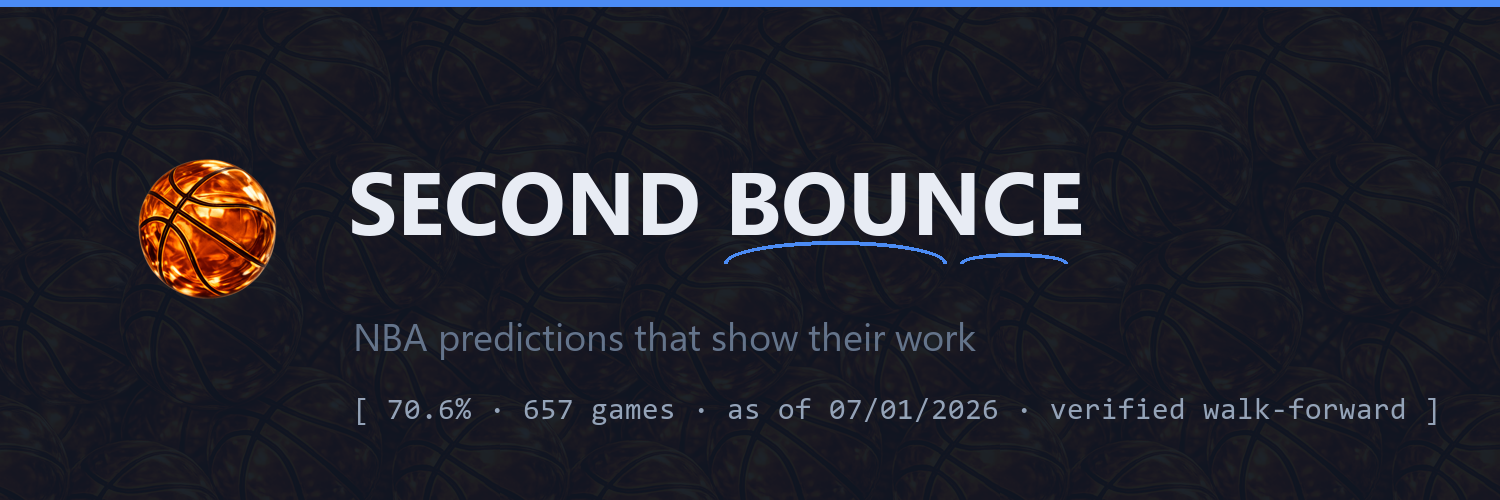
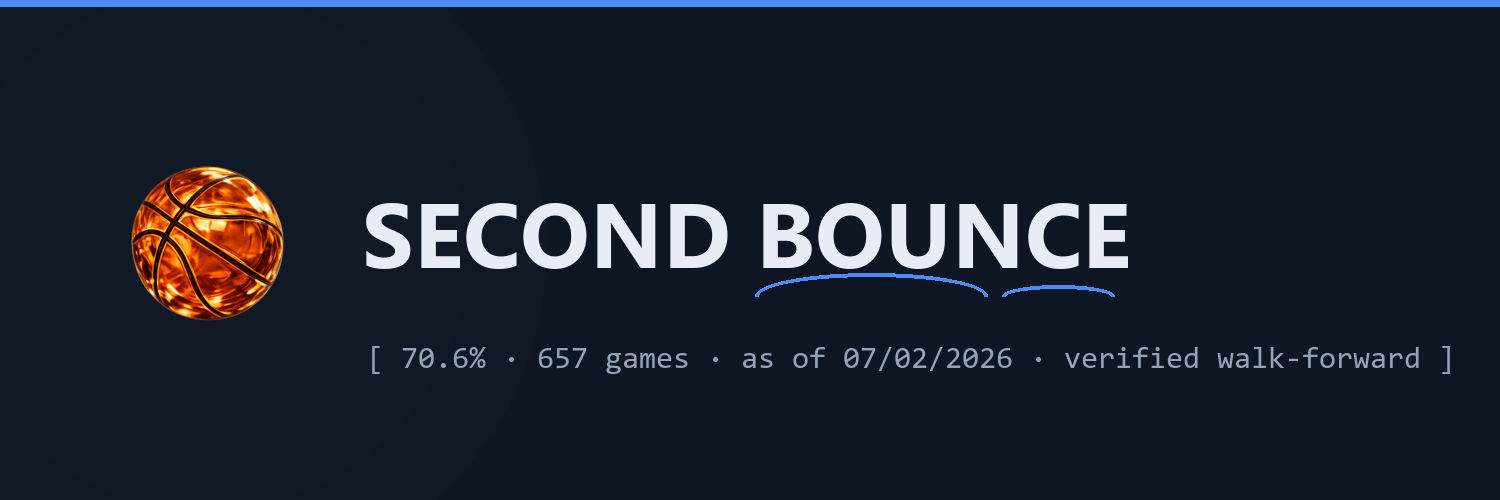
X header cleanup, season-moments ribbon, trimmed recap copy

diff --git a/scripts/generate_moments_ribbon.py b/scripts/generate_moments_ribbon.py
@@ -1,0 +1,104 @@
+"""Season-moments ribbon: a filmstrip of five receipts for the recap post.
+
+Team logos from the ESPN CDN (same source the live site uses).
+Output: docs/growth/posts/assets/moments_ribbon.png (1456x340).
+"""
+
+from PIL import Image, ImageDraw, ImageFont
+
+ASSETS = "docs/growth/posts/assets"
+F = "C:/Windows/Fonts/"
+
+STRIP = (8, 12, 20)
+CARD = (15, 22, 35)
+TEXT = (232, 236, 244)
+MUTED = (100, 116, 139)
+BLUE = (75, 139, 244)
+GREEN = (16, 185, 129)
+RED = (239, 68, 68)
+HOLE = (24, 32, 48)
+
+W, H = 1456, 340
+img = Image.new("RGB", (W, H), STRIP)
+d = ImageDraw.Draw(img)
+
+# film sprocket holes
+for y in (14, H - 26):
+    for x in range(24, W - 20, 52):
+        d.rounded_rectangle([x, y, x + 26, y + 12], radius=4, fill=HOLE)
+
+f_label = ImageFont.truetype(F + "segoeuib.ttf", 19)
+f_big = ImageFont.truetype(F + "segoeuib.ttf", 56)
+f_mid = ImageFont.truetype(F + "segoeuib.ttf", 40)
+f_sub = ImageFont.truetype(F + "segoeui.ttf", 19)
+f_stamp = ImageFont.truetype(F + "segoeuib.ttf", 21)
+
+
+def logo(name, size):
+    im = Image.open(f"{ASSETS}/logos/{name}.png").convert("RGBA")
+    return im.resize((size, size))
+
+
+def card(x, w=262):
+    d.rounded_rectangle([x, 46, x + w, H - 46], radius=12, fill=CARD)
+    return x, x + w
+
+
+def stamp(cx, y, text, color):
+    tw = d.textlength(text, font=f_stamp)
+    d.rounded_rectangle([cx - tw / 2 - 12, y, cx + tw / 2 + 12, y + 32],
+                        radius=6, outline=color, width=2)
+    d.text((cx, y + 4), text, font=f_stamp, fill=color, anchor="ma")
+
+
+def center(x0, x1):
+    return (x0 + x1) / 2
+
+
+pad = 22
+xs = [pad + i * (262 + 27) for i in range(5)]
+
+# 1. the streak
+x0, x1 = card(xs[0]); c = center(x0, x1)
+d.text((c, 66), "THE STREAK", font=f_label, fill=MUTED, anchor="ma")
+d.text((c, 104), "20", font=f_big, fill=TEXT, anchor="ma")
+d.text((c, 178), "straight correct picks\nat the March peak", font=f_sub,
+       fill=MUTED, anchor="ma", align="center")
+stamp(c, 238, "CORRECT", GREEN)
+
+# 2. the run
+x0, x1 = card(xs[1]); c = center(x0, x1)
+d.text((c, 66), "THE RUN", font=f_label, fill=MUTED, anchor="ma")
+d.text((c, 104), "16 / 20", font=f_big, fill=TEXT, anchor="ma")
+d.text((c, 178), "tracked playoff games\ncalled correctly", font=f_sub,
+       fill=MUTED, anchor="ma", align="center")
+stamp(c, 238, "80%", GREEN)
+
+# 3. the humbling (BOS-PHI twice)
+x0, x1 = card(xs[2]); c = center(x0, x1)
+d.text((c, 66), "THE HUMBLING", font=f_label, fill=MUTED, anchor="ma")
+img.paste(logo("bos", 74), (int(c) - 88, 96), logo("bos", 74))
+img.paste(logo("phi", 74), (int(c) + 14, 96), logo("phi", 74))
+d.text((c, 182), "90% on Boston at home,\ntwice. Lost twice.", font=f_sub,
+       fill=MUTED, anchor="ma", align="center")
+stamp(c, 238, "MISS x2", RED)
+
+# 4. the blowout (OKC-PHX)
+x0, x1 = card(xs[3]); c = center(x0, x1)
+d.text((c, 66), "THE BLOWOUT", font=f_label, fill=MUTED, anchor="ma")
+img.paste(logo("okc", 74), (int(c) - 88, 96), logo("okc", 74))
+img.paste(logo("phx", 74), (int(c) + 14, 96), logo("phx", 74))
+d.text((c, 182), "90% on the Thunder.\nSuns won by 32.", font=f_sub,
+       fill=MUTED, anchor="ma", align="center")
+stamp(c, 238, "MISS", RED)
+
+# 5. the audit
+x0, x1 = card(xs[4]); c = center(x0, x1)
+d.text((c, 66), "THE AUDIT", font=f_label, fill=MUTED, anchor="ma")
+d.text((c, 112), "73.5 → 70.6", font=f_mid, fill=TEXT, anchor="ma")
+d.text((c, 178), "we caught our tracker\nflattering the model", font=f_sub,
+       fill=MUTED, anchor="ma", align="center")
+stamp(c, 238, "CORRECTED", BLUE)
+
+img.save(f"{ASSETS}/moments_ribbon.png")
+print("done: moments_ribbon.png")

diff --git a/scripts/generate_brand_assets.py b/scripts/generate_brand_assets.py
@@ -97,29 +97,29 @@ draw.text((W - 80, H - 56), "secondbounce.substack.com",
 banner.save(f"{ASSETS}/footer_banner.png")
 
 # ---------------------------------------------------------------- X header
+# Clean: no tagline, no pattern (Aaron 2026-07-01). Ball + wordmark + receipt.
 XW, XH = 1500, 500
 hdr = Image.new("RGB", (XW, XH), NAVY)
-tile2 = pattern.resize((500, 500))
-tile2.putalpha(tile2.split()[3].point(lambda a: int(a * 0.06)))
-for x in range(0, XW, 500):
-    for y in range(0, XH, 500):
-        hdr.paste(tile2, (x, y), tile2)
 d2 = ImageDraw.Draw(hdr)
+# soft radial glow behind the ball so the plain navy isn't flat
+glow = Image.new("L", (XW, XH), 0)
+gd = ImageDraw.Draw(glow)
+for r_, a_ in [(340, 14), (260, 20), (180, 26)]:
+    gd.ellipse([205 - r_, 250 - r_, 205 + r_, 250 + r_], fill=a_)
+hdr.paste(Image.new("RGB", (XW, XH), (36, 48, 72)), (0, 0), glow)
 d2.rectangle([0, 0, XW, 6], fill=BLUE_DARK_SURFACE)
 
-ball2 = ball_full.resize((190, 190))
-hdr.paste(ball2, (110, 140), ball2)
+ball2 = ball_full.resize((210, 210))
+hdr.paste(ball2, (100, 145), ball2)
 
-f_brand2 = ImageFont.truetype(F + "segoeuib.ttf", 88)
-tx2 = 110 + 190 + 48
-d2.text((tx2, 140), "SECOND BOUNCE", font=f_brand2, fill=TEXT_DARK)
+f_brand2 = ImageFont.truetype(F + "segoeuib.ttf", 92)
+tx2 = 100 + 210 + 52
+d2.text((tx2, 168), "SECOND BOUNCE", font=f_brand2, fill=TEXT_DARK)
 prefix2 = d2.textlength("SECOND ", font=f_brand2)
 bounce2 = d2.textlength("BOUNCE", font=f_brand2)
-bounce_arcs(d2, tx2 + prefix2, 263, bounce2, BLUE_DARK_SURFACE, width=4)
-d2.text((tx2 + 5, 310), "NBA predictions that show their work",
-        font=ImageFont.truetype(F + "segoeui.ttf", 38), fill=MUTED_DARK)
-d2.text((tx2 + 5, 396), RECEIPT,
-        font=ImageFont.truetype(F + "consola.ttf", 30), fill=(148, 163, 184))
+bounce_arcs(d2, tx2 + prefix2, 296, bounce2, BLUE_DARK_SURFACE, width=4)
+d2.text((tx2 + 5, 344), RECEIPT,
+        font=ImageFont.truetype(F + "consola.ttf", 31), fill=(148, 163, 184))
 hdr.save(f"{ASSETS}/x_header.png")
 
 print("done:", RECEIPT)

diff --git a/docs/growth/posts/2026-07-01-season-recap.md b/docs/growth/posts/2026-07-01-season-recap.md
@@ -8,7 +8,7 @@ The season is over. Here's how it went.
 
 For context: picking the home team every night gets you roughly 55%. Most public prediction models live in the 63 to 67% range. A 70.6% season clears both bars, and the full game-by-game log is public.
 
-One more thing about that number, because it matters. While preparing this recap we audited our own tracking system and found it had been grading the model too generously: it scored some games using ratings that already included those games' results, a subtle form of data leakage that inflated the record to 73.5%. We rebuilt the entire season as a strict walk-forward replay, where every prediction only knows what was knowable before tip-off. The number that survives that audit is 70.6%, and it's the only number you'll ever see us quote. A prediction outfit that quietly publishes its most flattering math is a tout. We're the other thing.
+One more thing about that number. While preparing this recap we audited our own tracker and caught it flattering the model: a subtle data leak had inflated the record to 73.5%. We rebuilt the whole season as a strict walk-forward replay, and 70.6% is what survives. It's the only number you'll ever see us quote. A prediction outfit that quietly publishes its most flattering math is a tout. We're the other thing.
 
 ## What is this thing?
 
@@ -34,15 +34,11 @@ Accuracy is one thing. Calibration, whether a "75% confident" pick actually wins
 
 The middle of the range is solid: picks in the 60 to 80% buckets delivered right around what they promised, and coin-flip games landed above promise. The flaw is at the top: picks stated at 90%+ won 81% of the time, not 90. The model knows who's better; it's still learning how sure to be. Tightening that top end is literally on our offseason engineering list, and you'll be able to check next season whether we did it.
 
-## The misses we still think about
+## The season in five receipts
 
-The model's most confident wrong calls of the season, in all their glory:
+![Five moments: the 20-game streak, the 16/20 playoff run, the Boston-Philly humbling, the OKC blowout miss, and the audit](https://substack-post-media.s3.amazonaws.com/public/images/36503e95-bac5-4d4c-be3d-d139afe22561_1456x340.jpeg)
 
-- Boston at home against Philadelphia in the playoffs, twice. The model said 90% both times. The Sixers won both games by double digits.
-- Oklahoma City at home against Phoenix in April, 90%. The Suns won by 32.
-- Denver at home against Minnesota, 90%. The Wolves stole it 119 to 114.
-
-Basketball remains undefeated at humbling math. A 90% call losing isn't the model breaking, it's the 1-in-10 showing up on schedule. But four of them clustered at the top is part of why "overconfident up top" is our number one calibration fix.
+Basketball remains undefeated at humbling math. A 90% call losing isn't the model breaking, it's the 1-in-10 showing up on schedule (ask Denver, who the model gave 90% at home before Minnesota stole it 119 to 114). But several of those clustered at the top is exactly why "overconfident up top" is our number one calibration fix.
 
 ## What happens now
 
